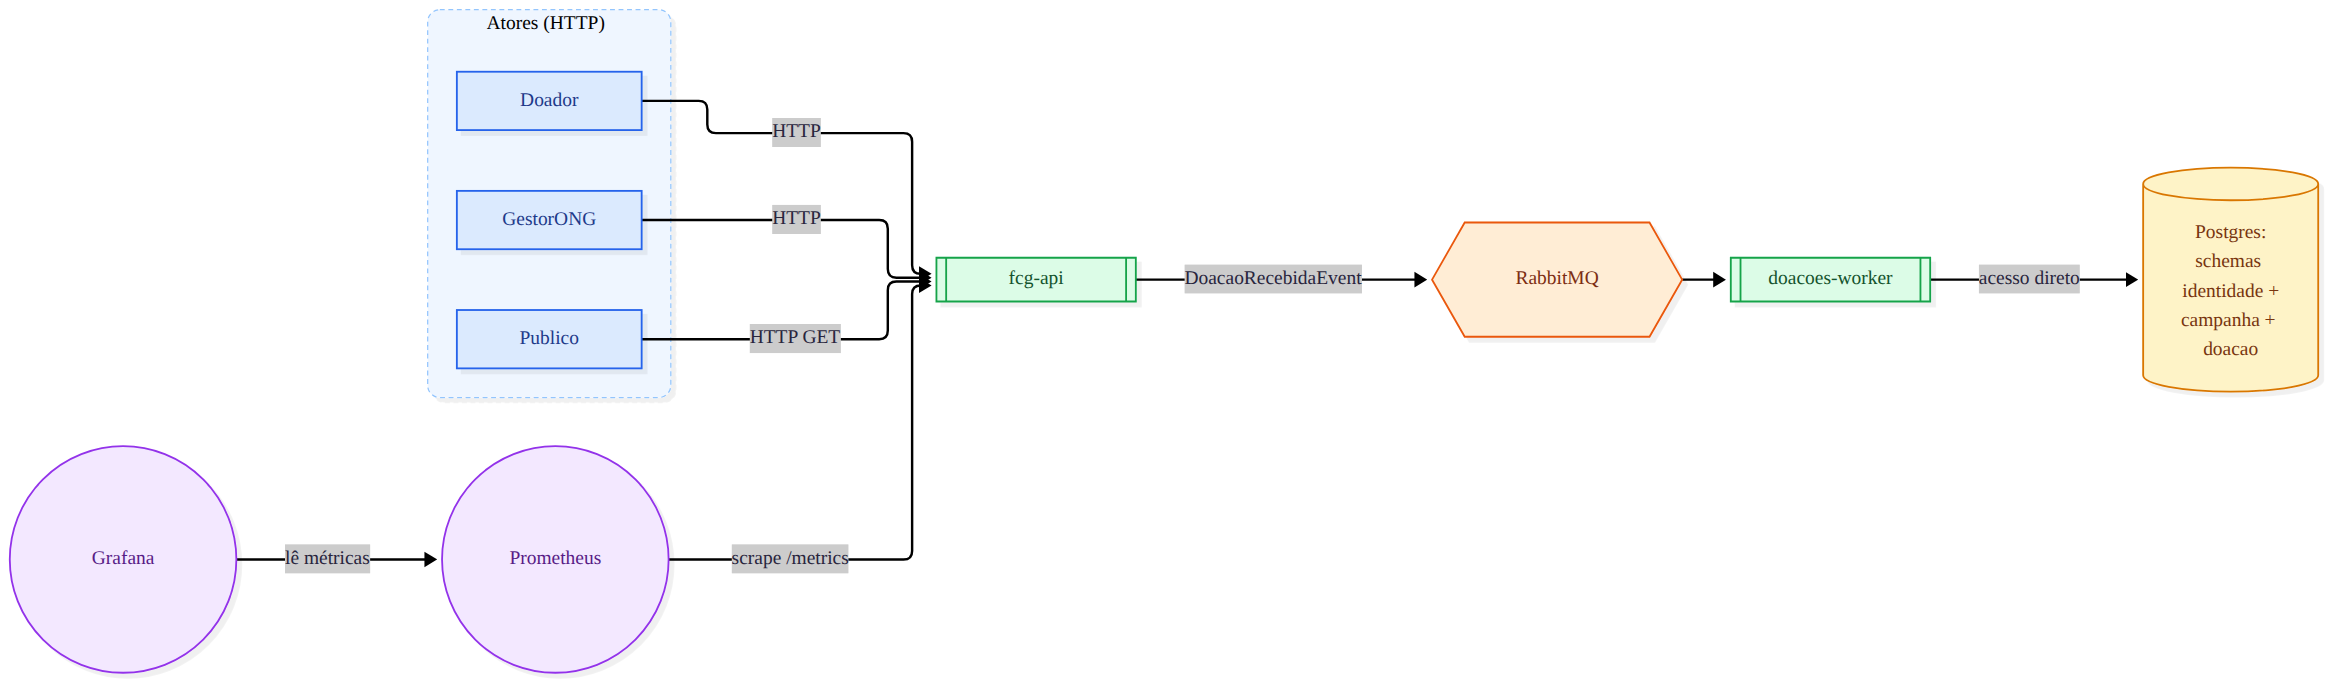
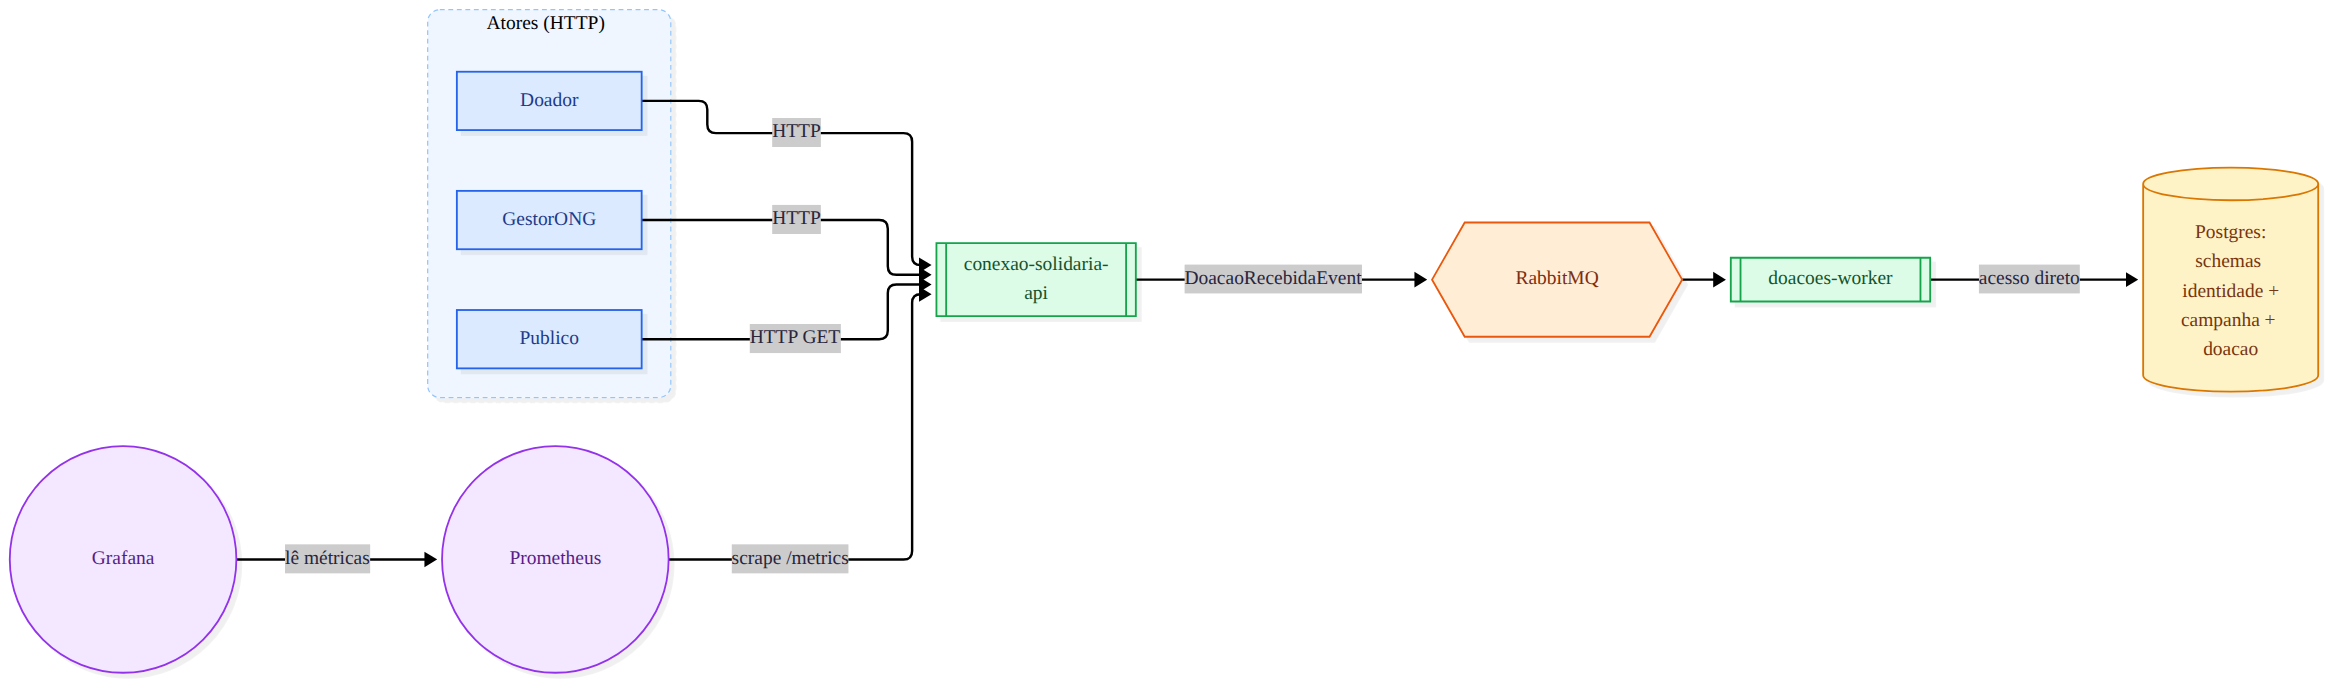
docs: corrige resíduo "fcg-api" no diagrama e docs (era do projeto FCG)
"fcg-api" era resíduo do boilerplate FIAP Cloud Games, nunca renomeado no
diagrama de arquitetura (nem no código gerado a partir dele) — mesmo o
código real já usando "conexao-solidaria-api" (ver k8s/conexao-solidaria-api/,
docker-compose.yml) desde a auditoria de identidade registrada em
visao-geral.md. Corrigido em ARQUITETURA.md (tabela + mermaid + legenda),
no roteiro do vídeo, e nas menções em d4-kubernetes.md e
d6-documentacao-final.md. Diagrama reexportado com o nome certo.

Claude-Session: https://claude.ai/code/session_01RLMFnPQTacBVFhCbSG5afN

Changed region(s): [[0.3724, 0.3348, 0.4966, 0.4565]]

diff --git a/docs/conexao-solidaria/entrega/roteiro-segmento-1-diagrama.md b/docs/conexao-solidaria/entrega/roteiro-segmento-1-diagrama.md
@@ -41,12 +41,12 @@ Do lado esquerdo temos quem acessa o sistema, agrupado numa caixa só de
 batendo na API via HTTP. Dentro dela, o Doador e o GestorONG se autenticam e
 fazem requisições HTTP autenticadas, e o Público em geral acessa só o painel
 de transparência, sem precisar de login. Todo esse tráfego chega num único
-ponto de entrada, a `fcg-api`.
+ponto de entrada, a `conexao-solidaria-api`.
 
 Aqui já vale destacar uma decisão importante: apesar do nome sugerir
 "microsserviços" no plural, a nossa arquitetura é um monolito modular com
 apenas dois processos que de fato são implantados de forma independente.
-O primeiro é essa `fcg-api`, que concentra os módulos de Identidade,
+O primeiro é essa `conexao-solidaria-api`, que concentra os módulos de Identidade,
 Campanha e Doação — cada um organizado em pastas dentro do mesmo
 repositório, não em projetos ou repositórios separados. O segundo processo
 deployável é o `doacoes-worker`, que eu mostro já já.
@@ -74,7 +74,7 @@ mais complexidade do que o prazo do hackathon permitia.
 
 Por fim, a parte de observabilidade, que também é uma exigência do
 edital e que a gente adicionou nesta versão do diagrama: o Prometheus faz
-scrape periódico do endpoint de métricas da `fcg-api`, coletando dados
+scrape periódico do endpoint de métricas da `conexao-solidaria-api`, coletando dados
 como número de requisições por rota, latência e uso de CPU e memória dos
 pods. E o Grafana lê esses dados direto do Prometheus e exibe tudo num
 dashboard, que a gente mostra com números reais mais adiante no vídeo, no

diff --git a/docs/conexao-solidaria/ARQUITETURA.md b/docs/conexao-solidaria/ARQUITETURA.md
@@ -41,7 +41,7 @@ deployáveis:
 
 | Serviço (pod) | O que contém | Entrada |
 | --- | --- | --- |
-| `fcg-api` | Módulos Identidade + Campanha + Doacao, organizados em pastas (não em projetos/repos separados) | HTTP |
+| `conexao-solidaria-api` | Módulos Identidade + Campanha + Doacao, organizados em pastas (não em projetos/repos separados) | HTTP |
 | `doacoes-worker` | Processa `DoacaoRecebidaEvent`, atualiza Campanha e confirma/rejeita a Doação | Fila (RabbitMQ) |
 
 Sem API Gateway (Kong ficou de fora — era opcional no edital).
@@ -57,7 +57,7 @@ flowchart LR
     Publico[Publico]
   end
 
-  Doador -->|HTTP| API[["fcg-api"]]
+  Doador -->|HTTP| API[["conexao-solidaria-api"]]
   GestorONG -->|HTTP| API
   Publico -->|HTTP GET| API
 
@@ -84,7 +84,7 @@ flowchart LR
 ```
 
 Grupos visuais (cor por camada): azul = atores (client-side, batem na API via
-HTTP), verde = aplicação (`fcg-api` e `doacoes-worker`, os dois processos
+HTTP), verde = aplicação (`conexao-solidaria-api` e `doacoes-worker`, os dois processos
 deployáveis), laranja = mensageria (RabbitMQ, em hexágono — forma distinta
 para destacar a fila), amarelo/dourado = dados (Postgres, em cilindro), roxo
 = observabilidade (Prometheus e Grafana). Os três atores (`Doador`,

diff --git a/docs/conexao-solidaria/plano/d6-documentacao-final.md b/docs/conexao-solidaria/plano/d6-documentacao-final.md
@@ -162,7 +162,7 @@ CI) antes de encerrar.
       `../ARQUITETURA.md` (Opção A — sem precisar de SVG customizado):
       `Doador`/`GestorONG`/`Publico` agrupados num `subgraph "Atores (HTTP)"`
       com borda tracejada arredondada; cor por camada via `classDef`/`class`
-      (azul = atores, verde = aplicação `fcg-api`/`doacoes-worker`, laranja =
+      (azul = atores, verde = aplicação `conexao-solidaria-api`/`doacoes-worker`, laranja =
       mensageria, amarelo = dados, roxo = observabilidade); formas por tipo
       de nó (hexágono para o RabbitMQ, cilindro para o Postgres, círculo para
       Prometheus/Grafana, retângulo de sub-rotina para os dois serviços

diff --git a/docs/conexao-solidaria/plano/d4-kubernetes.md b/docs/conexao-solidaria/plano/d4-kubernetes.md
@@ -18,7 +18,7 @@ Exigência do edital: cluster K8s com `Deployments`, `Services` e
 `ConfigMaps` entregues. Processos a orquestrar (ver
 `../ARQUITETURA.md`):
 
-- `fcg-api` — Deployment + Service (exposto)
+- `conexao-solidaria-api` — Deployment + Service (exposto)
 - `doacoes-worker` — Deployment (sem Service, não recebe tráfego HTTP)
 - Postgres — pode ser Deployment simples com PVC, ou StatefulSet
 - RabbitMQ — idem
